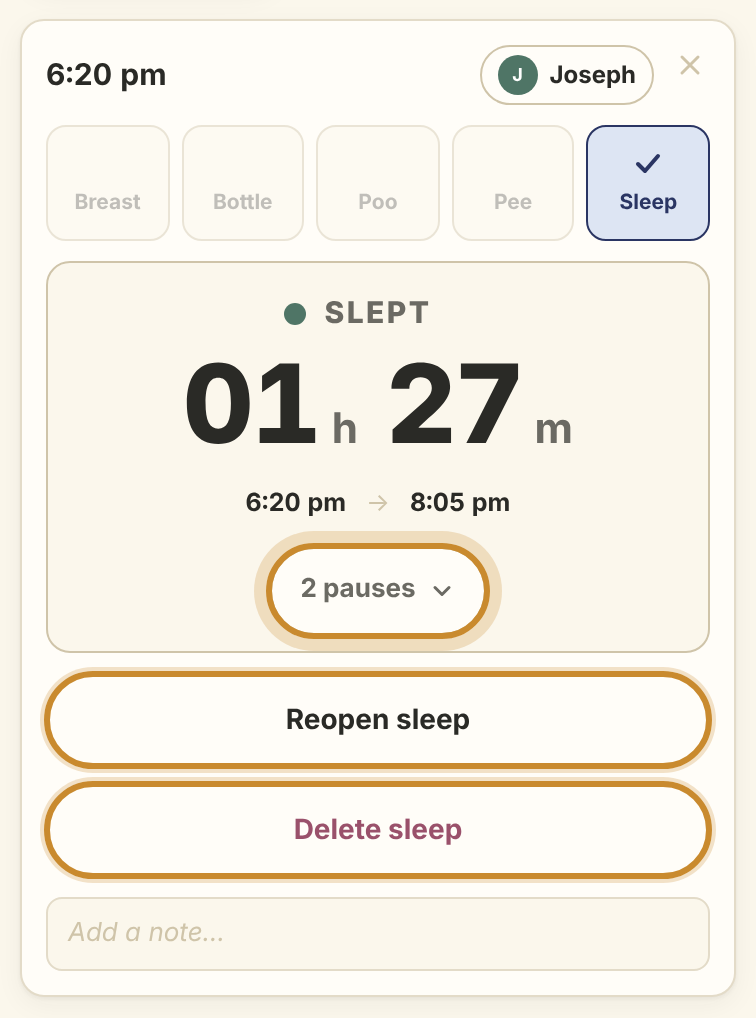
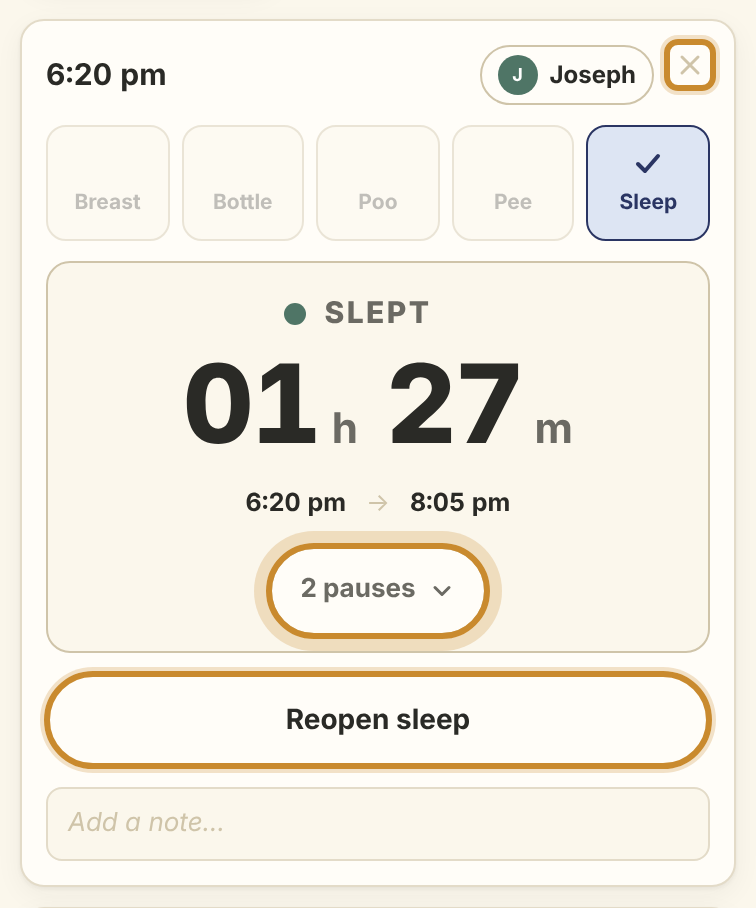
Release v1.15.0: CHANGELOG, version bump, Sleep tracker guide refresh
Cuts the release for PR #45 (JOS-90, JOS-91, JOS-92): moves [Unreleased]
into the dated 1.15.0 section, bumps package.json and the lock file, and
tightens the CHANGELOG wording so the release notes still fit one page
with screenshots.

Refreshes the Sleep tracker guide for the images that showed the old
Reports labels, the old small-capital section titles or the removed
Delete sleep button (06, 21, 24, 26-29); updates guide.json's wording to
match (the × or Edit-mode tick deletes a finished sleep now, and the
Averages note says "no night logged" rather than "no sleep").

Fixes gshots.mjs's stale `[data-delete-sleep]` selectors (JOS-92 removed
that button) and its Sleep summary table crop (the title sits above the
scrolling region, not inside it); adds rnshots-v1.15.0.mjs for this
release's four release-notes screenshots.

Claude-Session: https://claude.ai/code/session_01HspPWAoePmTWHnXdM7jq4i

diff --git a/CHANGELOG.md b/CHANGELOG.md
@@ -9,40 +9,32 @@ feature, and PATCH is a fix with no new functionality.
 
 ## [Unreleased]
 
+## [1.15.0] - 2026-10-20
+
 ### Changed
 - Clearer names on the Sleep averages (JOS-90): "Average time asleep per day"
   (was "Average sleep per day"), "Average length of night sleep" (was "Average
-  night sleep") and "Average wake-up time". Bedtime and wake-up now say they are
-  when the night sleep starts and ends, and a line under the cards says what a
-  night is.
-- Bigger section titles on the Sleep tab (JOS-91). 24-hour pattern, Averages,
+  night sleep") and "Average wake-up time". Bedtime and wake-up now say when the
+  night starts and ends, and a line under the cards explains what a night is.
+- Bigger section titles on the Sleep tab (JOS-91): 24-hour pattern, Averages,
   Sleep per day, Longest stretch and night wakes, and Sleep summary are now bold
-  titles instead of small grey capitals, with more space between the sections, so
-  each one starts with a clear break. Under 24-hour pattern and under Averages a
-  line now says that only sleeps that were logged are counted: a night that was
-  not added leaves a gap in the pattern and its day is left out of the averages.
-  The summary table's title also stays in place when the table is scrolled
-  sideways on a phone.
-- Delete sleep moves into Edit (JOS-92). The Delete sleep button under a finished
-  sleep is gone: the cross at the top right of a sleep card deletes it, as on
-  every other card, and the big button was too easy to hit by mistake. In Edit,
-  sleep cards now have a tick box like the other cards, and the sleeps and moments
-  ticked are deleted together with one confirmation that counts both, such as
-  "Delete 3 logged moments and 1 sleep?". A sleep that is still going can be
-  ticked too, and the box says it will be stopped. If the other parent changed one
-  of the sleeps first, that one stays and a message says so while the rest are
-  deleted. Deleted sleeps still go to Recently Deleted for 7 days.
+  instead of small grey capitals, with more space between sections. A new line
+  under 24-hour pattern and under Averages says only logged sleeps are counted,
+  so a missing night leaves a gap in the pattern and its day out of the averages.
+  The summary table's title now stays in place while the table scrolls sideways.
+- Delete sleep moves into Edit (JOS-92). The Delete sleep button is gone: the ×
+  on a finished card deletes it now, like every other card. In Edit, sleep cards
+  get a tick box too, and ticked sleeps and moments are deleted together with one
+  confirmation that counts both, such as "Delete 3 logged moments and 1 sleep?"
+  A sleep still running can be ticked; the box says it will be stopped first.
+  Deleted sleeps still go to Recently Deleted for 7 days.
 
 ### Fixed
 - The Sleep averages no longer count a daytime sleep as a night (JOS-90). A
-  night is now a sleep of at least 5 hours, so a day with no night in it, such as
-  the first day of logging, has none, and its sleeps are naps. That day is also
-  left out of every average and the note under Averages names it, so Average
-  bedtime, Average wake-up time, Average length of night sleep, Average wakes
-  per night and Average time asleep per day are made only from days that have a
-  night. Before, a 3 h 50 m daytime sleep on the first day became that day's
-  night and pulled the average bedtime to 1:13 am and the average wake-up to
-  10:34 am.
+  night now needs at least 5 hours asleep; a day with no night in it, like the
+  first day of logging, has none, and its sleeps are naps. That day is left out
+  of every average. Before, a 3h 50m daytime sleep became the first day's
+  "night" and pulled the average bedtime to 1:13 am.
 
 ## [1.14.0] - 2026-10-20
 
